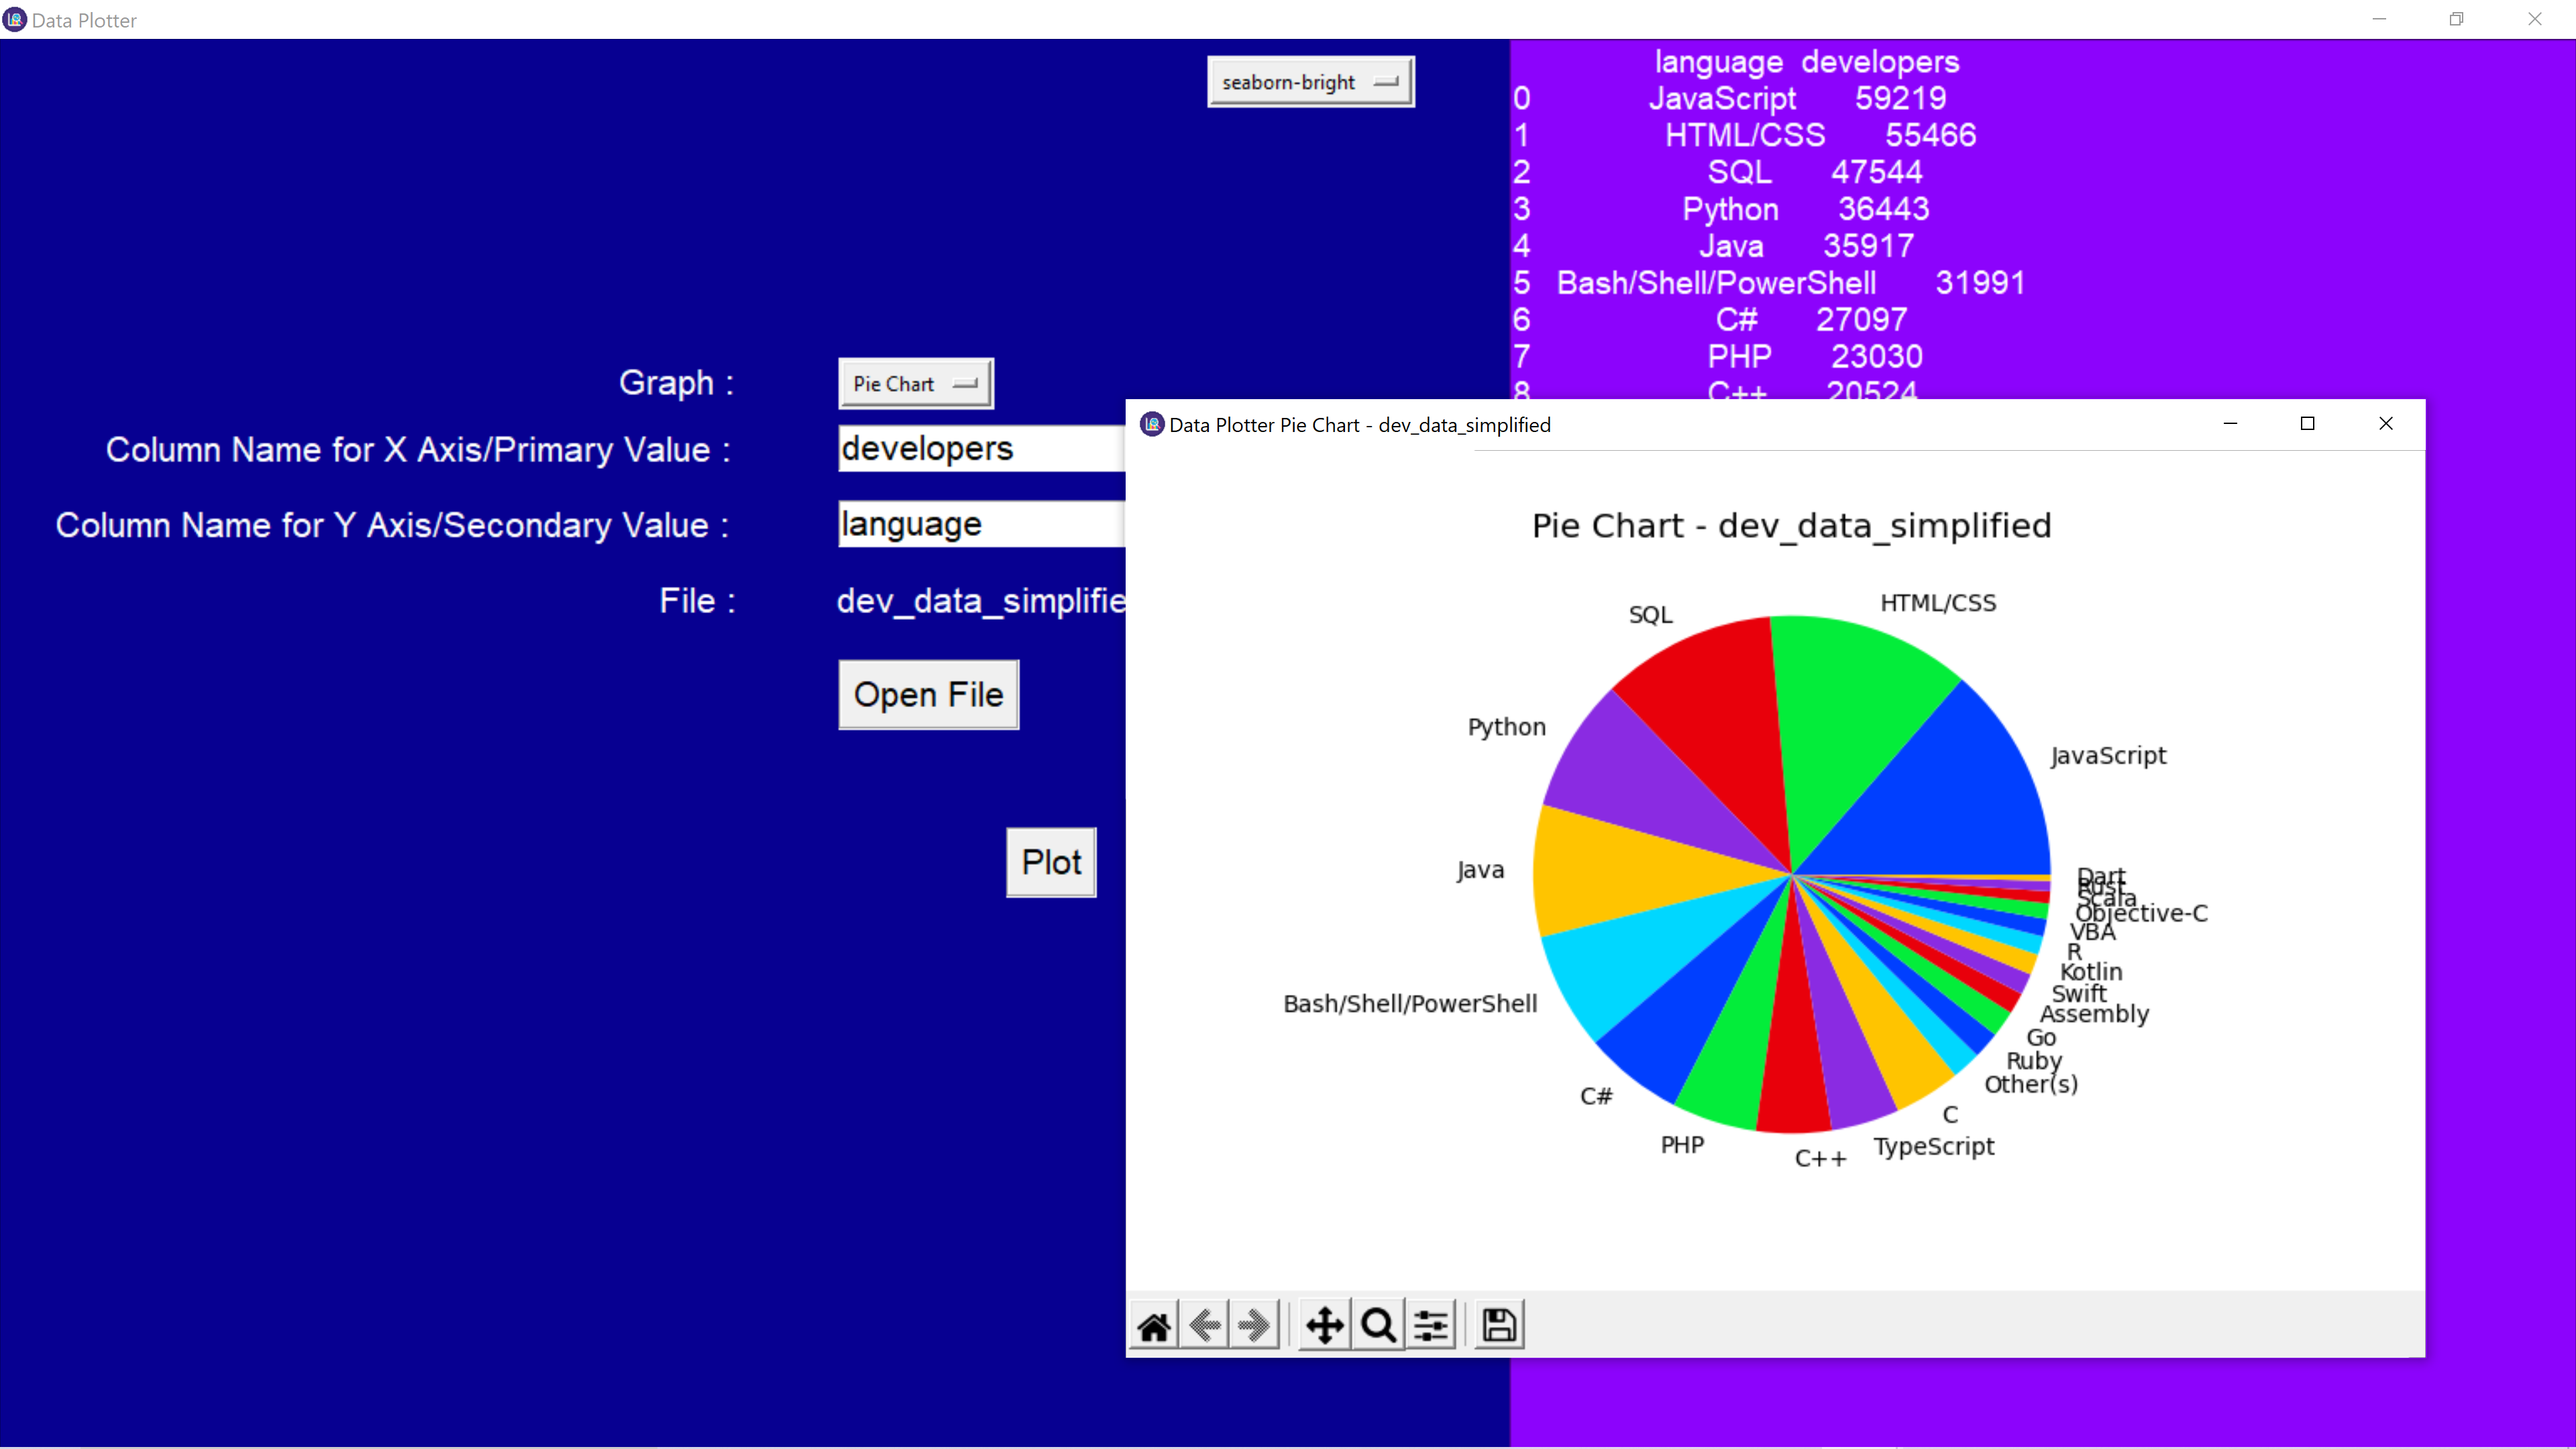
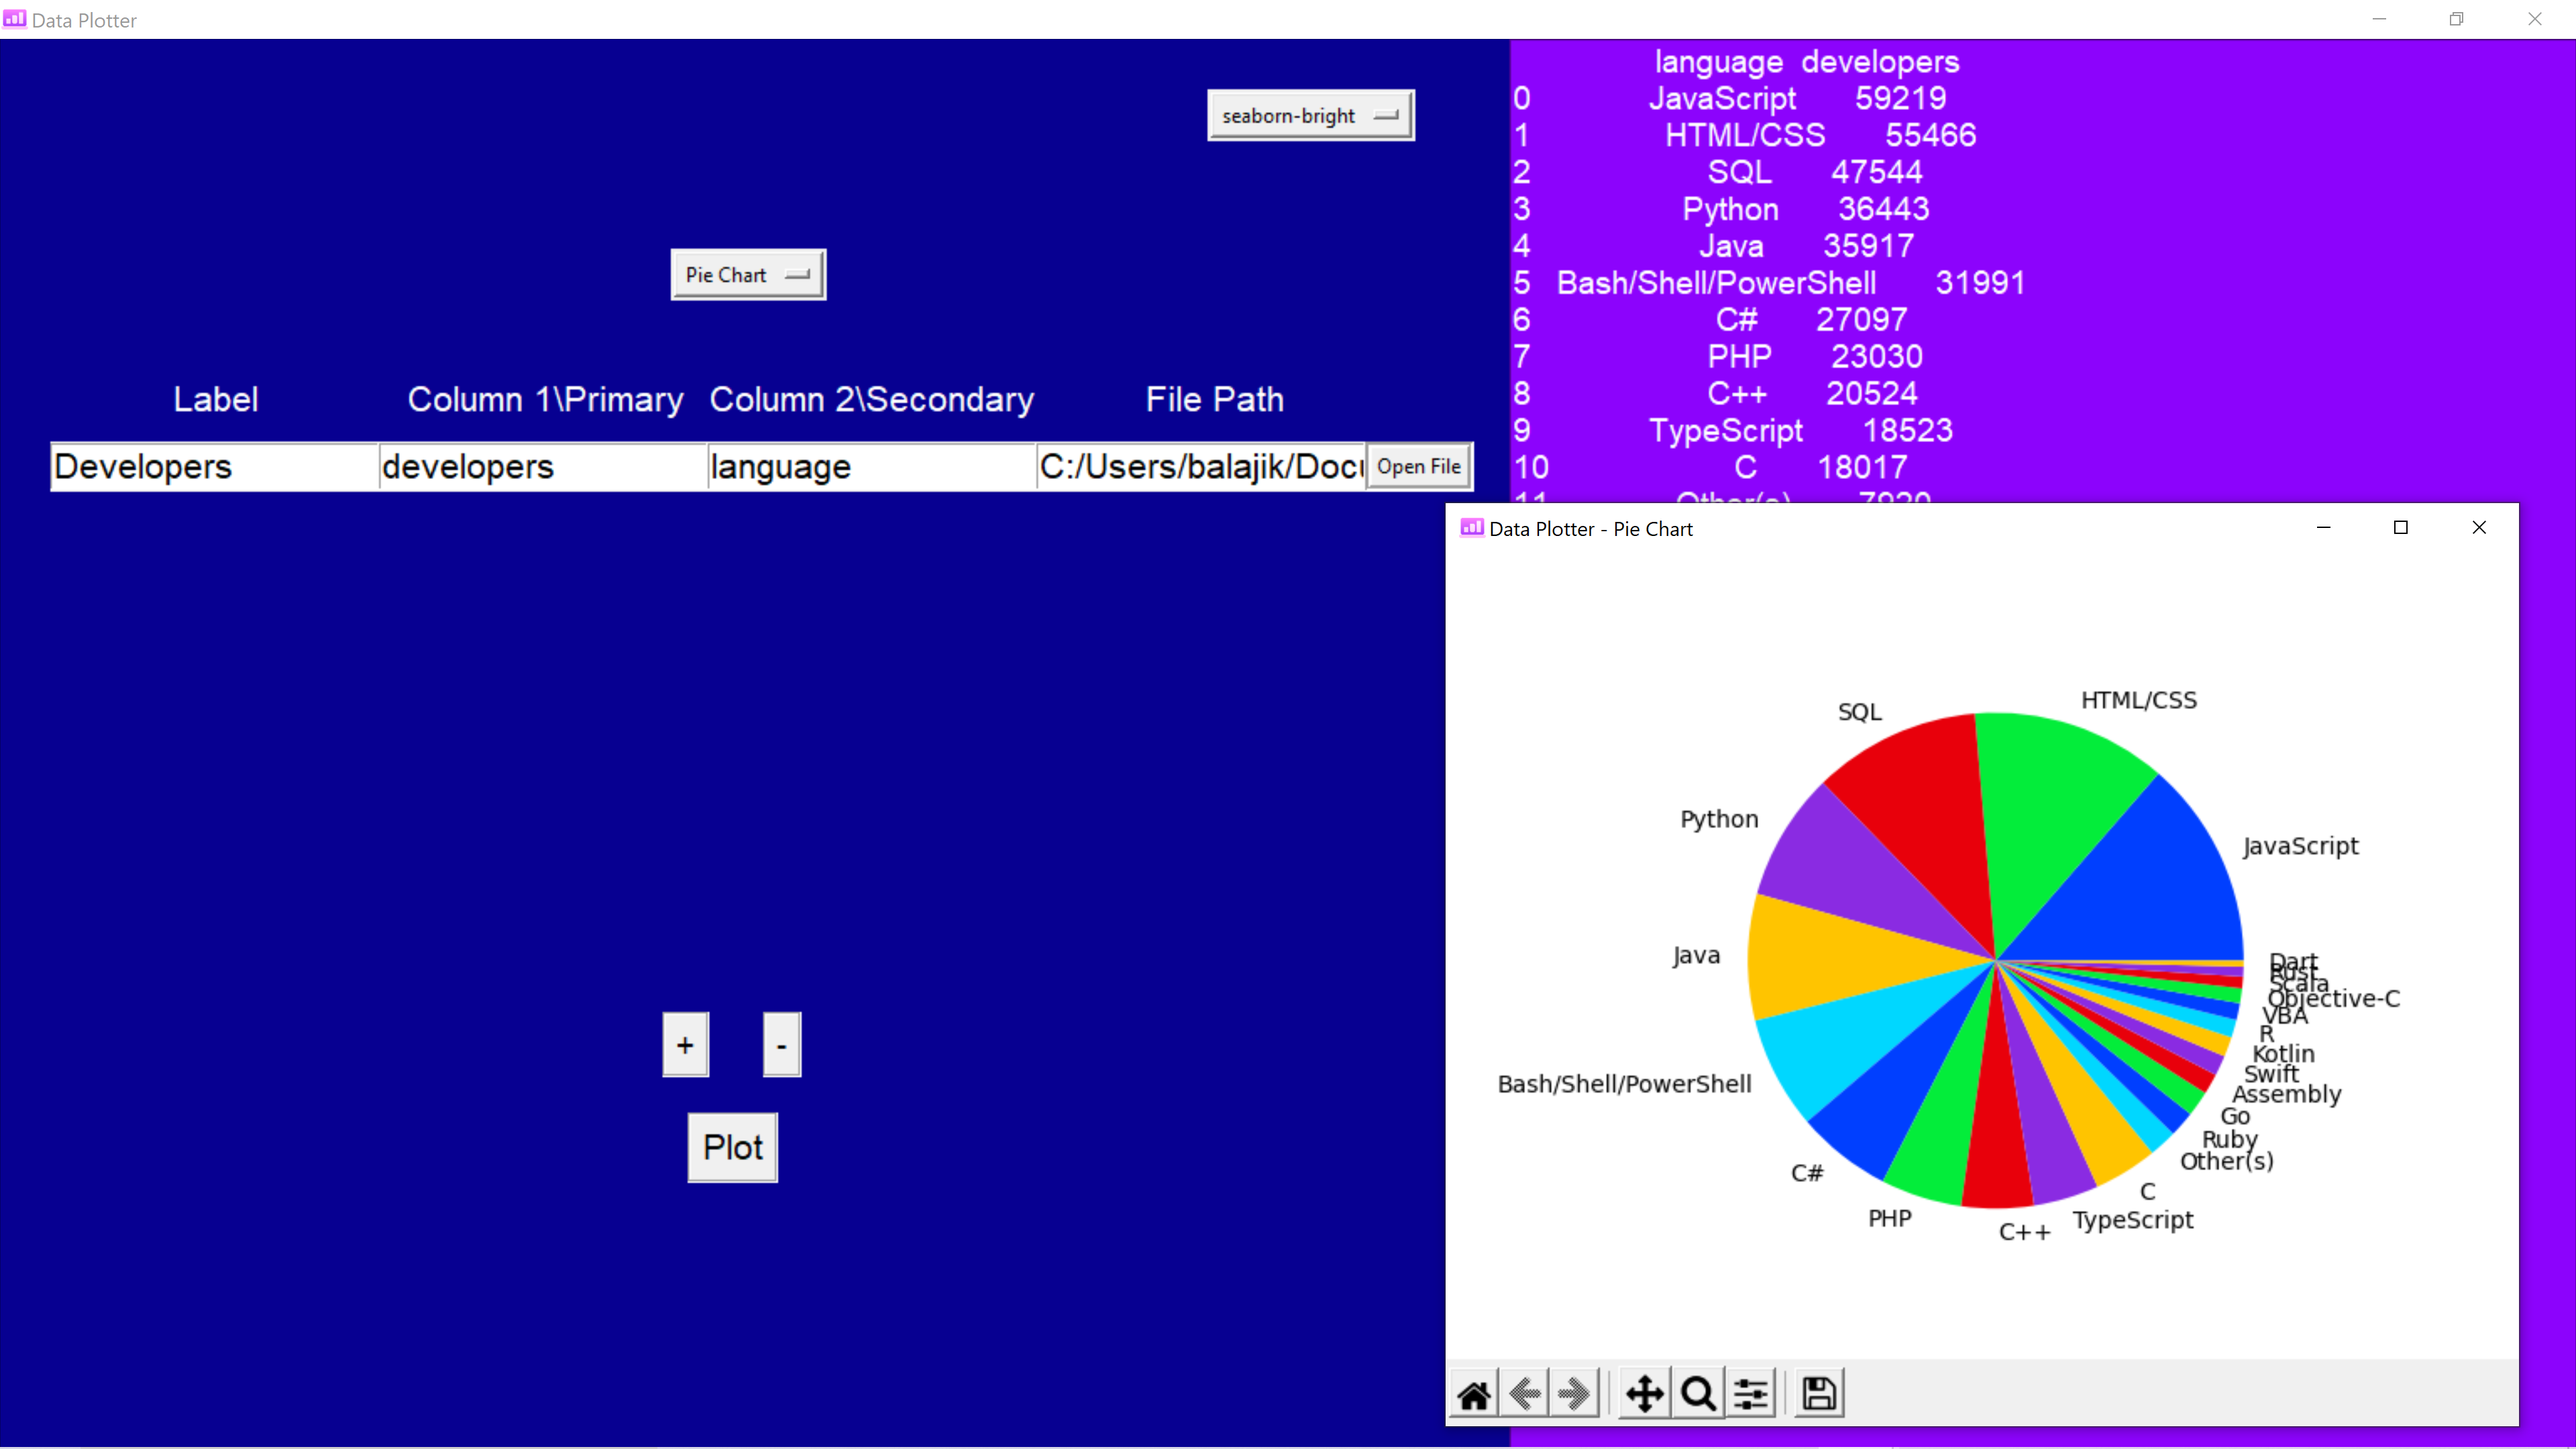
Update README.md and Screenshots

diff --git a/README.md b/README.md
@@ -12,12 +12,12 @@ Data Plotter is an open source app for plotting data from CSV Files. It is licen
 ![Screenshot 2](./images/Screenshot_2.png)
 
 ## Downloads
-Windows 64-bit and 32-bit - [Download](https://github.com/K-Balaji/DataPlotter/releases/download/3.0.0/Data_Plotter_Setup.exe)
+Windows 10 64-bit - [Download](https://github.com/K-Balaji/DataPlotter/releases/download/4.0.0/Data_Plotter_Setup.exe)
 
 ## Test Locally (For Windows, MacOS, Linux)
 
 1. Install <a href="https://www.python.org/" target="_blank">Python</a>.
-2. Download this [ZIP Folder](https://github.com/K-Balaji/DataPlotter/archive/refs/tags/3.0.0.zip) or this [tar.gz File](https://github.com/K-Balaji/DataPlotter/archive/refs/tags/3.0.0.tar.gz).
+2. Download this [ZIP Folder](https://github.com/K-Balaji/DataPlotter/archive/refs/tags/4.0.0.zip) or this [tar.gz File](https://github.com/K-Balaji/DataPlotter/archive/refs/tags/4.0.0.tar.gz).
 3. Extract it to a directory of your choice.
 4. Open your terminal and navigate to that directory.
 5. Enter the following in the terminal - 
